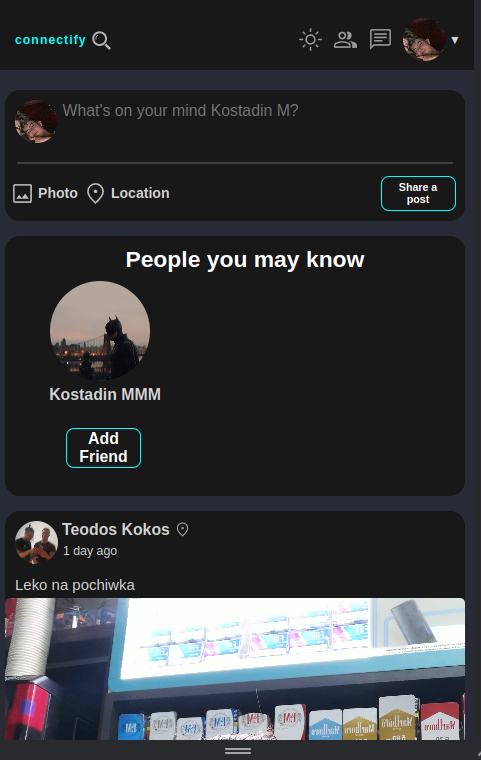
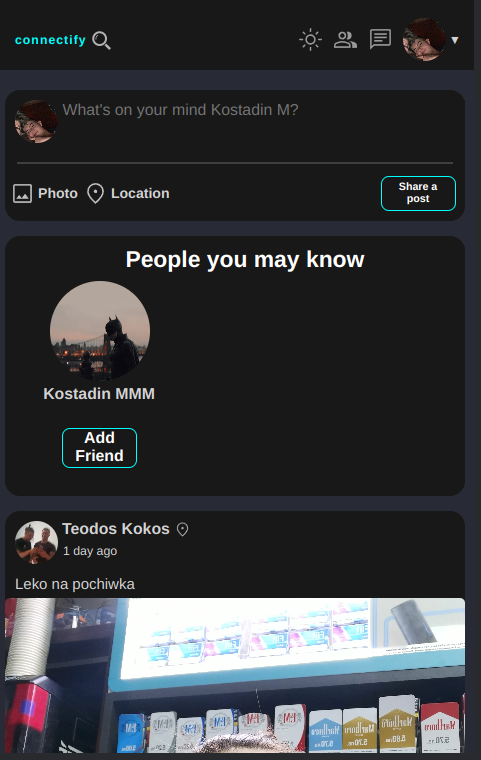
f

diff --git a/src/components/friends-widget/Friends.css b/src/components/friends-widget/Friends.css
@@ -156,7 +156,6 @@
     }
 
     .box>.listFriends>.friend>.name {
-        margin-right: 0 !important;
         text-align: center;
         min-width: none;
         max-width: none;
@@ -175,7 +174,7 @@
     }
 
     .box>.listFriends>.friend>.buttons>button {
-        margin-right: 54px;
+        margin-right: 58px;
         height: 40px !important;
         font-size: 0.9em;
     }
